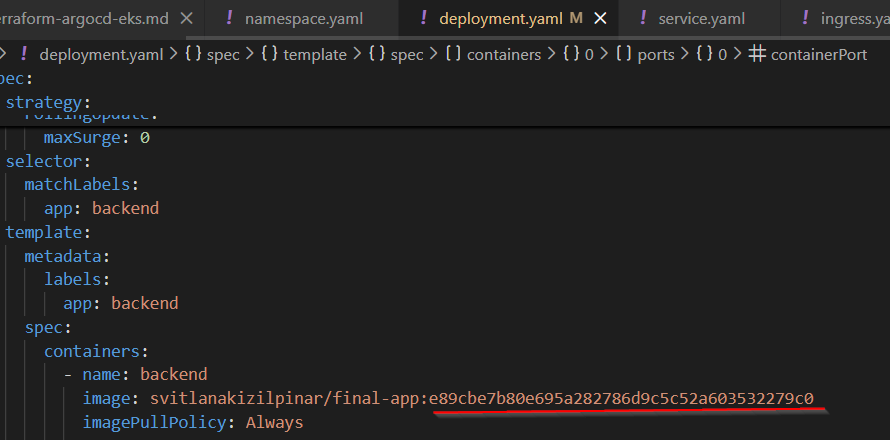
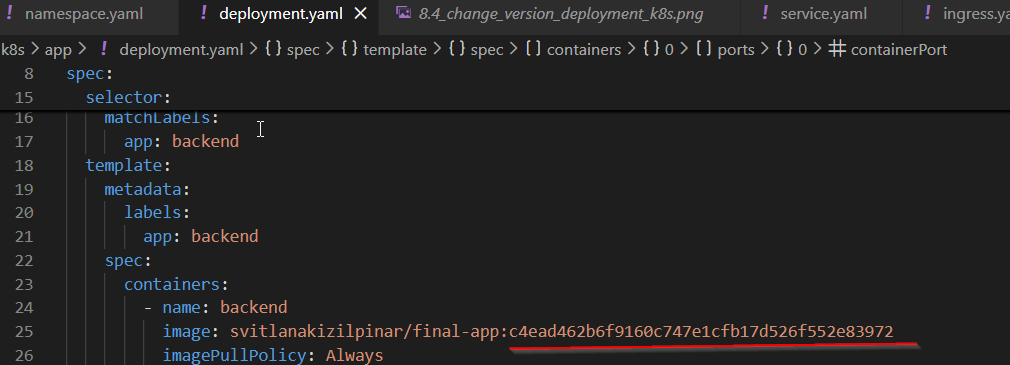
add docu and change tag for sync argo

Changed region(s): [[0.0, 0.0, 1.0, 1.0], [0.0, 0.6329, 0.0303, 0.663]]

diff --git a/docs/8_argocd-app-autosync.md b/docs/8_argocd-app-autosync.md
@@ -1,0 +1,325 @@
+# Крок 5. ArgoCD Application та авто‑синхронізація backend'а
+
+У цьому кроці я налаштувала **ArgoCD Application**, який:
+
+- читає Kubernetes‑маніфести мого застосунку з GitHub‑репозиторію (каталог `k8s/app` з кроку 4);
+- автоматично застосовує їх у кластері EKS (GitOps‑підхід);
+- **автоматично оновлює** Deployment при зміні маніфестів (наприклад, при зміні тега Docker‑образу) завдяки **AUTO‑SYNC**.
+
+---
+
+## 1. Передумови
+
+На цьому етапі в мене вже було:
+
+- створений кластер EKS і встановлений ArgoCD (див. крок 3);
+- створені Kubernetes‑маніфести застосунку в репозиторії (див. крок 4):
+  - `k8s/app/namespace.yaml`
+  - `k8s/app/deployment.yaml`
+  - `k8s/app/service.yaml`
+  - `k8s/app/ingress.yaml`
+- налагоджений CI в GitHub Actions, який збирає Docker‑образ `svitlanakizilpinar/final-app` і тегує його:
+  - як `latest`;
+  - а також тегом, рівним `github.sha` (коміт‑SHA).
+
+---
+
+## 2. Перевірка доступу до EKS з WSL
+
+Усі дії з `kubectl` я виконувала з WSL/Ubuntu на Windows.
+
+Спочатку я оновлюю `kubeconfig` для підключення до актуального кластера EKS (після кожного пересоздання кластера це обов'язково):
+
+```bash
+aws eks update-kubeconfig --region eu-central-1 --name sk
+```
+
+Далі перевіряю підключення:
+
+```bash
+kubectl cluster-info
+kubectl get nodes
+kubectl get ns
+```
+
+Очікування:
+
+- команда `kubectl cluster-info` показує адресу API‑сервера EKS;
+- у `kubectl get nodes` видно робочу ноду;
+- у `kubectl get ns` вже є системні простори імен (`kube-system`, `argocd` тощо).
+
+---
+
+## 3. Вхід в ArgoCD UI
+
+Панель ArgoCD у мене доступна за HTTPS‑адресою (налаштованою в кроці 3):
+
+- `https://argocd.sk.devops10.test-danit.com`
+
+Я входила під користувачем `admin`, пароль брала з Kubernetes‑секрету `argocd-initial-admin-secret` у namespace `argocd` (див. деталі в документації кроку 3).
+
+Скріншот головної сторінки ArgoCD після успішного логіну:
+
+- ![Головний екран ArgoCD](../screens/5.5_result_argo.png)
+
+---
+
+## 4. Створення ArgoCD Application `app-sk`
+
+Далі я створила застосунок ArgoCD, який буде керувати маніфестами з каталогу `k8s/app`.
+
+1. У ArgoCD натискаю кнопку **`NEW APP`**.
+
+   - ![Кнопка NEW APP](../screens/7.1_create_application_argocd.png)
+
+2. На вкладці **GENERAL** заповнюю:
+
+   - **Application Name**: `app-sk`
+   - **Project**: `default`
+
+   - ![Вкладка GENERAL](../screens/7.2_create_application_GENERAL_argocd.png)
+
+3. На вкладці **SOURCE** вказую, звідки брати маніфести:
+
+   - **Repository URL**: `https://github.com/SvitLanaSvit/DevOps_Final_Project_2026.git`
+   - **Revision**: `main`
+   - **Path**: `k8s/app`
+
+   Важливо: шлях саме `k8s/app`, без зворотних слешів і без додаткових підкаталогів.
+
+   - ![Вкладка SOURCE](../screens/7.3_create_application_SOURCE_argocd.png)
+
+4. На вкладці **DESTINATION** вказую, куди деплоїти:
+
+   - **Cluster URL**: `https://kubernetes.default.svc` (in-cluster Kubernetes);
+   - **Namespace**: `app`;
+   - ставлю галочку **`AUTO-CREATE NAMESPACE`**, щоб ArgoCD сам створив namespace `app`, якщо його ще немає.
+
+   - ![Вкладка DESTINATION](../screens/7.4_create_application_DESTINATION_argocd.png)
+
+5. Налаштування **DIRECTORY** залишаю за замовчуванням (тому що в мене звичайний набір YAML‑файлів без Helm/Kustomize).
+
+6. Після цього натискаю **`CREATE`**.
+
+У результаті на головному екрані ArgoCD з'являється новий застосунок `app-sk` зі статусом `OutOfSync` (маніфести ще не застосовані до кластера):
+
+- ![Результат створення Application app-sk](../screens/7.5_result_after_create_application_argocd.png)
+
+---
+
+## 5. Перший Sync та перевірка в WSL
+
+Щоб ArgoCD застосував маніфести в кластері, я виконую **перший ручний sync**:
+
+1. Відкриваю застосунок `app-sk` в ArgoCD.
+2. Натискаю кнопку **`SYNC`** → **`SYNCHRONIZE`**.
+
+Після успішного sync у дереві ресурcів видно, що ArgoCD створив:
+
+- namespace `app`;
+- deployment `backend`;
+- service `backend-svc`;
+- ingress `backend-ingress`.
+
+- ![Дерево ресурсів app-sk після першого sync](../screens/7.6_result_after_create_application_argocd.png)
+
+### Перевірка з WSL
+
+У WSL я перевірила, що ресурси реально створені в кластері:
+
+```bash
+kubectl get ns
+kubectl get pods -n app
+kubectl get svc -n app
+kubectl get ingress -n app
+```
+
+Очікування:
+
+- існує namespace `app`;
+- pod `backend-...` у статусі `Running`;
+- сервіс `backend-svc` типу `ClusterIP`;
+- ingress `backend-ingress` з host `app.sk.devops10.test-danit.com`.
+
+Скріншот з WSL із результатами `kubectl`:
+
+- ![Ресурси app у кластері, перевірка з WSL](../screens/7.8_result_after_create_application_app_wsl.png)
+
+### Перевірка з браузера
+
+Після створення ingress і оновлення DNS (external-dns), відкриваю в браузері:
+
+- `https://app.sk.devops10.test-danit.com`
+
+Отримую відповідь від Python backend'а з IP pod'а:
+
+- ![Результат у браузері після деплою через ArgoCD](../screens/7.7_result_after_create_application_app_browser.png)
+
+---
+
+## 6. Увімкнення AUTO-SYNC для застосунку `app-sk`
+
+Щоб ArgoCD **автоматично оновлював** ресурси при зміні маніфестів у Git, я включила авто‑синхронізацію.
+
+1. У ArgoCD відкриваю застосунок `app-sk`.
+2. Натискаю **`APP DETAILS`** → **`EDIT`**.
+3. Перехожу на вкладку **`SYNC POLICY`**.
+4. Ставлю галочку **`ENABLE AUTO-SYNC`**.
+
+За бажанням можна додатково увімкнути:
+
+- `PRUNE RESOURCES` — автоматично видаляти ресурси, які були видалені з маніфестів;
+- `SELF HEAL` — повертати ресурси до стану з Git, якщо їх змінено напряму в кластері.
+
+Скріншоти налаштувань AUTO‑SYNC:
+
+- ![Налаштування AUTO-SYNC (1)](../screens/8.1_add_auto_sync_application_argocd.png)
+- ![Налаштування AUTO-SYNC (2)](../screens/8.2_add_auto_sync_application_argocd.png)
+
+Після збереження вгорі сторінки з'являється банер, що **AUTO-SYNC увімкнено**, а в описі застосунку видно налаштовану політику синхронізації:
+
+- ![AUTO-SYNC успішно увімкнено](../screens/8.3_add_auto_sync_application_argocd.png)
+
+Тепер, коли стан у Git зміниться, ArgoCD сам:
+
+- виявить, що застосунок `OutOfSync`;
+- виконає sync без ручного натискання кнопки.
+
+---
+
+## 7. Оновлення Docker‑образу через зміну тега в `deployment.yaml`
+
+Щоб продемонструвати GitOps‑підхід і AUTO‑SYNC, я змінила тег Docker‑образу в маніфесті Deployment.
+
+### 7.1. Звідки береться тег образу (SHA)
+
+Після кожного коміту в гілці `main` мій GitHub Actions workflow:
+
+1. збирає Docker‑образ із Python backend'ом;
+2. пушить його в Docker Hub як `svitlanakizilpinar/final-app` з тегами:
+   - `latest`;
+   - `${{ github.sha }}` — повний SHA коміту.
+
+Подивитися SHA останнього коміту можна на сторінці репозиторію в GitHub у розділі **Commits**. Цей SHA використовує GitHub Actions як тег Docker‑образу.
+
+### 7.2. Зміна тега образу в маніфесті
+
+У WSL я відкрила репозиторій і відредагувала файл `k8s/app/deployment.yaml`:
+
+```bash
+cd DevOps_Final_Project_2026
+code k8s/app/deployment.yaml   # або nano/vim
+```
+
+У секції контейнера змінила рядок `image` з попереднього значення, наприклад:
+
+```yaml
+image: svitlanakizilpinar/final-app:latest
+```
+
+на конкретний SHA‑тег, наприклад:
+
+```yaml
+image: svitlanakizilpinar/final-app:<новий_SHA_коміту>
+```
+
+(у моєму випадку я послідовно змінювала тег на різні SHA, які згенерував GitHub Actions).
+
+Скріншот зміни тега образу в маніфесті:
+
+- ![Зміна версії образу в deployment.yaml](../screens/8.4_change_version_deployment_k8s.png)
+
+Після редагування виконую стандартні Git‑команди:
+
+```bash
+git status
+git diff k8s/app/deployment.yaml
+git commit -am "Change backend image tag"
+git push origin main
+```
+
+У цей момент у гілці `main` з'являється новий коміт, де `deployment.yaml` посилається на інший тег Docker‑образу.
+
+---
+
+## 8. Як ArgoCD з AUTO-SYNC оновлює Deployment
+
+Після пушу змін у GitHub ArgoCD автоматично:
+
+1. виявляє, що застосунок `app-sk` став **`OutOfSync`** (маніфести в Git відрізняються від стану в кластері);
+2. завдяки ввімкненому **AUTO‑SYNC** запускає синхронізацію без моєї участі;
+3. оновлює Deployment `backend` у namespace `app`:
+   - Kubernetes починає rolling update, стягує новий Docker‑образ з Docker Hub із відповідним SHA‑тегом;
+   - створює новий pod із новим образом;
+   - видаляє старий pod.
+
+Скріншоти з ArgoCD під час цього процесу:
+
+- ![ArgoCD бачить відмінності після зміни тега](../screens/8.5_result_change_version_deployment_argo.png)
+- ![ArgoCD виконав авто-синхронізацію](../screens/8.6_result_change_version_deployment_argo.png)
+
+У підсумку застосунок знову переходить у статус `Healthy` та `Synced`, але вже з оновленим образом.
+
+---
+
+## 9. Перевірки в WSL після оновлення версії
+
+Щоб переконатися, що оновлення реально відбулося в кластері, я виконую кілька перевірок з WSL.
+
+### 9.1. Перевірка pod'ів
+
+```bash
+kubectl get pods -n app -o wide
+```
+
+Очікування:
+
+- бачимо новий pod `backend-...` із новим часом створення;
+- старий pod (якщо ще існує) у статусі `Terminating` або вже видалений.
+
+### 9.2. Перевірка образу, який використовується в Deployment
+
+```bash
+kubectl describe deployment backend -n app | grep -i image
+```
+
+або
+
+```bash
+kubectl get deployment backend -n app -o yaml | grep -i image
+```
+
+У виводі має бути оновлений рядок із тегом SHA, який я вказала в `deployment.yaml`.
+
+### 9.3. Перевірка ingress і доступу з браузера
+
+```bash
+kubectl get ingress -n app
+```
+
+Переконуюся, що ingress `backend-ingress` все ще показує host `app.sk.devops10.test-danit.com`.
+
+Потім знову відкриваю в браузері:
+
+- `https://app.sk.devops10.test-danit.com`
+
+Скріншот із WSL (оновлений тег образу та IP pod'а) і з браузера з відповіддю `OK from pod IP: ...`:
+
+- ![Результат після оновлення версії в WSL](../screens/8.7_result_change_version_deployment_wsl.png)
+- ![Результат після оновлення версії в браузері](../screens/8.8_result_change_version_deployment_browser_app.png)
+
+Сторінка з відповіддю backend'а завантажується, а IP pod'а може змінитися (якщо запит обробив вже новий pod).
+
+---
+
+## 10. Підсумок кроку 5
+
+На цьому кроці я:
+
+- створила ArgoCD Application `app-sk`, який бере маніфести з каталогу `k8s/app` у GitHub та застосовує їх до кластера EKS;
+- один раз вручну виконала `SYNC` і переконалася через WSL (`kubectl`), що namespace, Deployment, Service і Ingress створені коректно, а застосунок доступний за `https://app.sk.devops10.test-danit.com`;
+- увімкнула **AUTO‑SYNC** для `app-sk`, щоб ArgoCD самостійно оновлював кластер при зміні маніфестів у Git;
+- змінила тег Docker‑образу в `k8s/app/deployment.yaml` на SHA конкретного коміту, запушила зміни в GitHub і побачила, як ArgoCD автоматично перейшов у `OutOfSync`, а потім виконав авто‑синхронізацію та rolling update в кластері;
+- за допомогою команд у WSL (`kubectl get pods`, `kubectl describe deployment`, `kubectl get ingress`) перевірила, що в кластері дійсно працює оновлений образ.
+
+Таким чином, у проєкті реалізований повноцінний GitOps‑потік: **код → Docker‑образ → маніфести в Git → ArgoCD → оновлений застосунок в EKS** з автоматичною синхронізацією змін.
